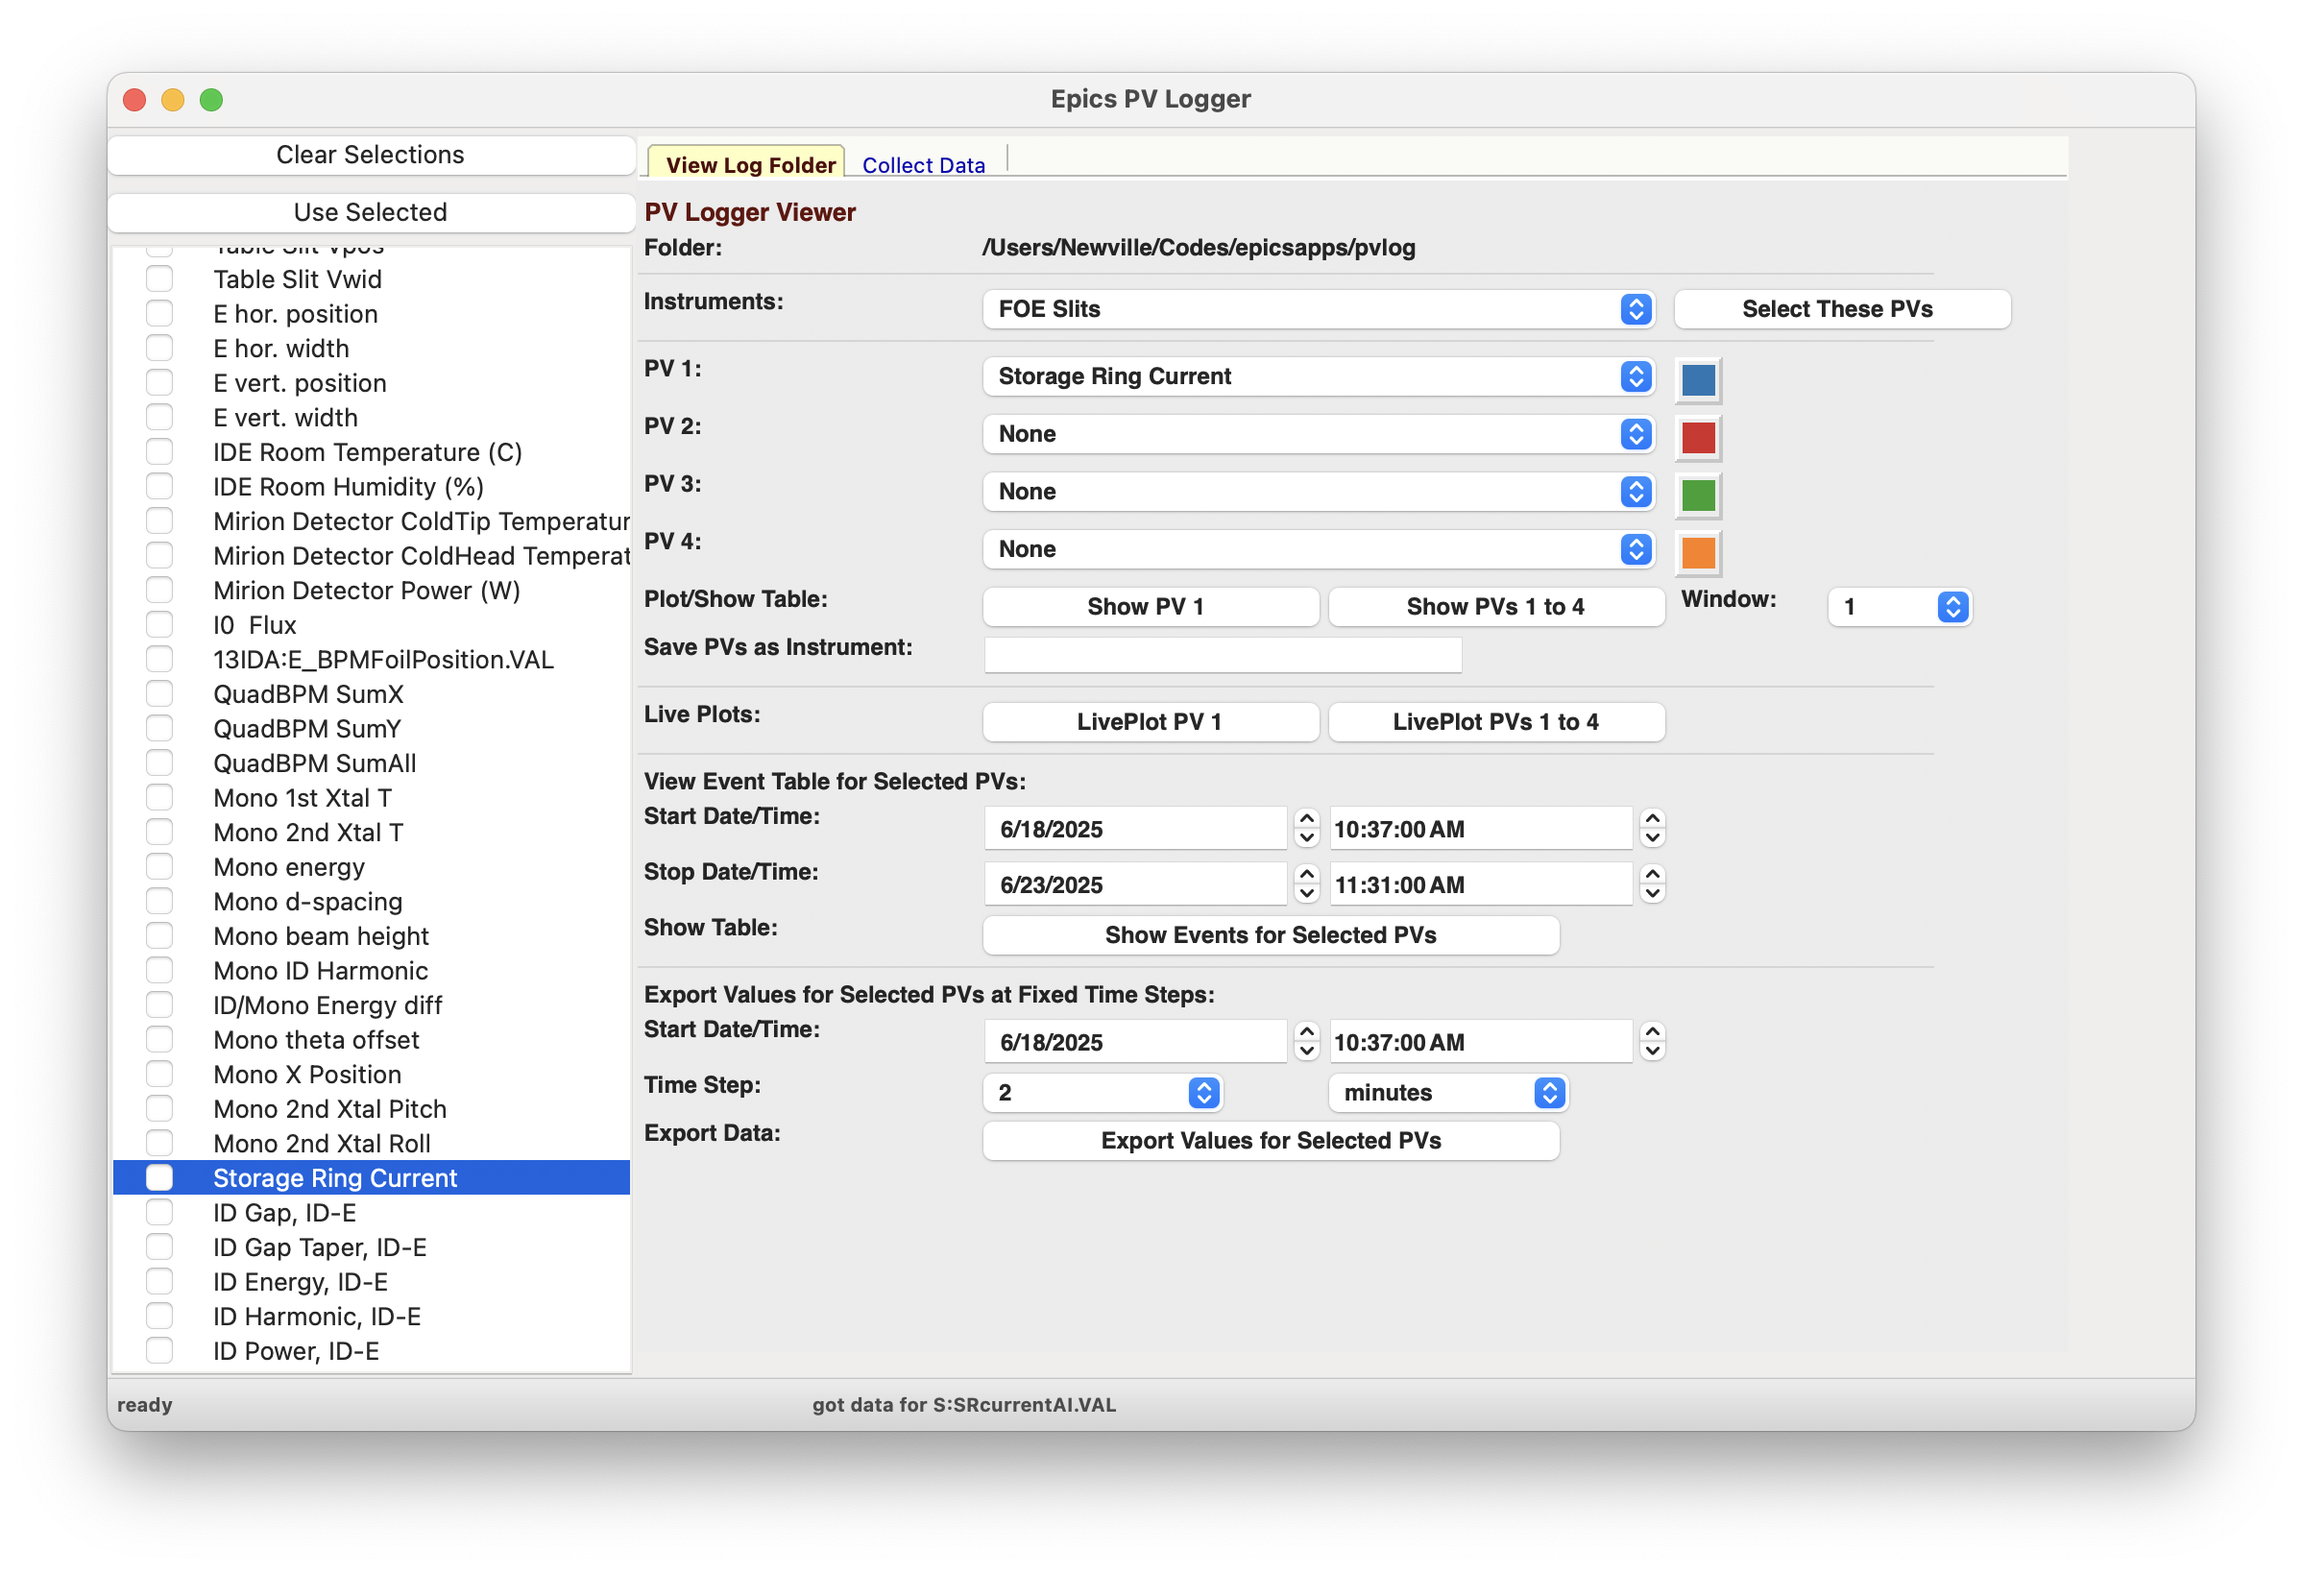
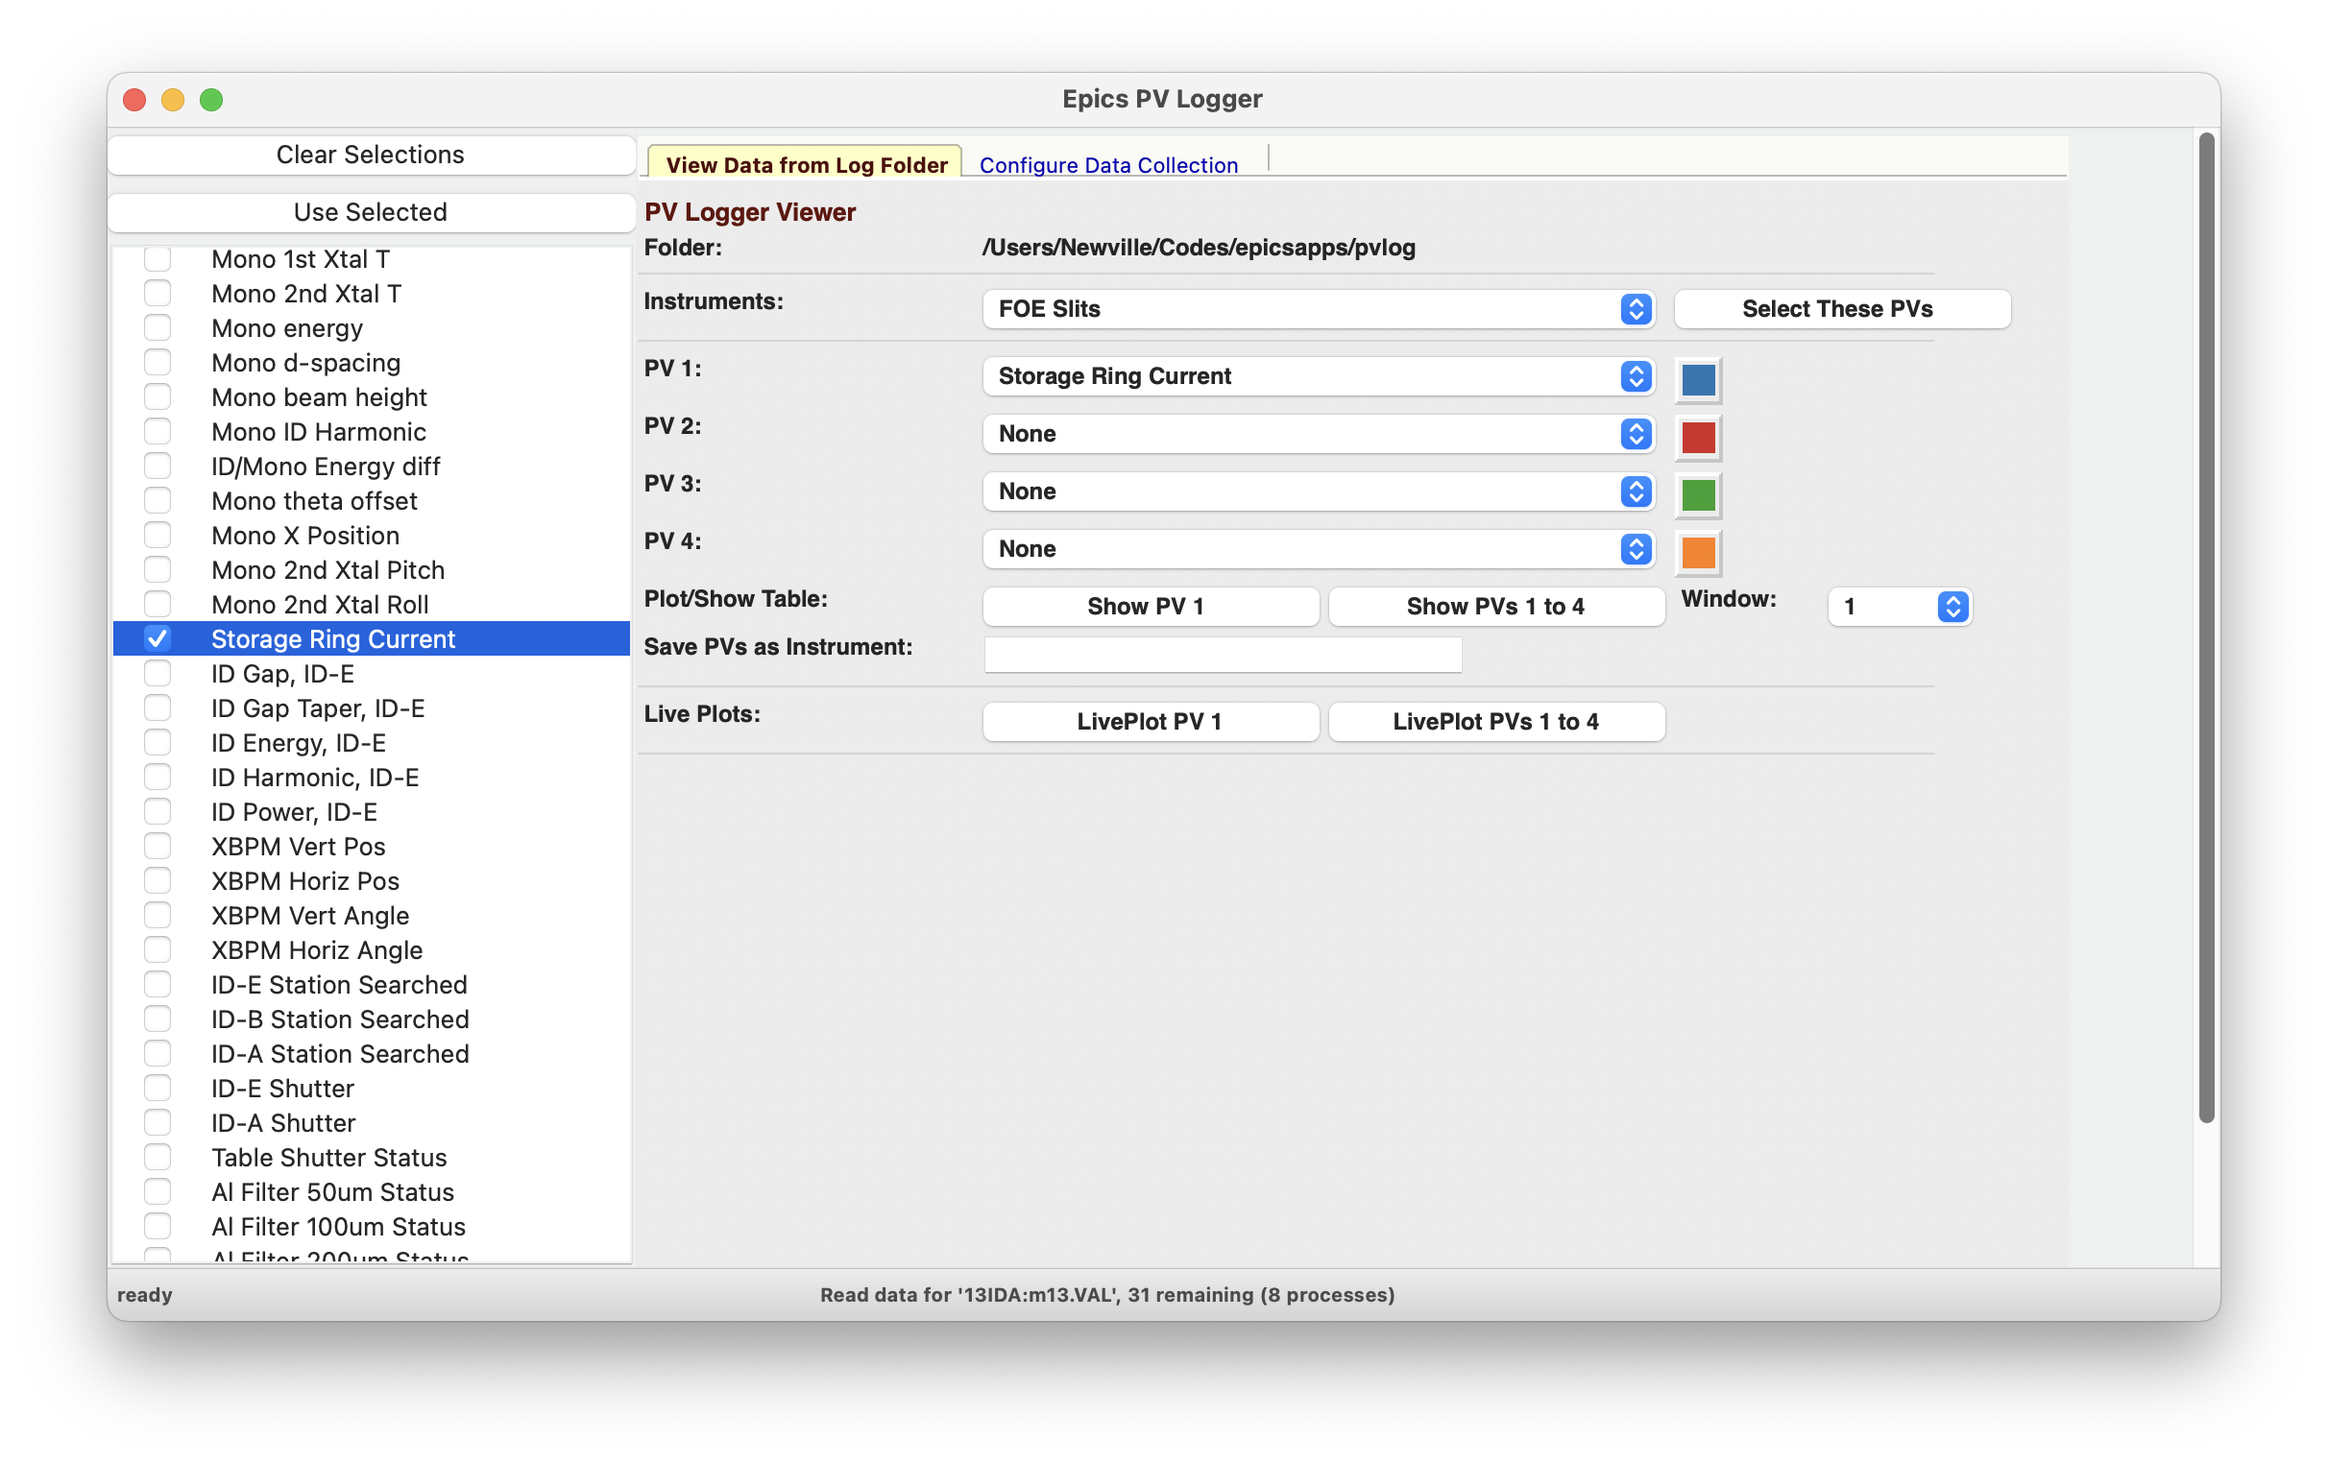
update PVLogger doc

diff --git a/doc/pvlogger.rst b/doc/pvlogger.rst
@@ -7,7 +7,7 @@ PV Logger
 ====================================
 
 The Epics PV Logger collects timeseries of a set of PVs into plain
-text data files in a folder, and displays these data back for
+text data files in a folder, and displays these data for
 exploratory analysis.  This is intended for a modest number of PVs
 that are not the primary data being collected during an experiment,
 for a limited time.  The typical use-case could be expressed as
@@ -18,26 +18,28 @@ For such experiments, it is often useful to collect values like
 Storage Ring Current, room temperature, positions and temperature of
 beamline optics and components, and detector settings from existing
 Epics PVs.  This sort of *metadata* cold be put into every data
-fil. While some metadata surely belongs in each data file, items like
-temperature of an upstream mirror or values of beam position monitors
-are really not metadata about the individual data file.  And, while
-there are several larger systems for archiving and retrieving PV
-variables for the whole facility or beamline, these are often meant to
-be facility-wide systems, and not about individual experiments.  Such
-systems may not be easily available after the experiment or away
-from the beamline.
+file. While some metadata surely belongs in particular data files,
+items like temperature of an upstream mirror or values of beam
+position monitors are really not metadata about the individual scan or
+set of images.  And, while there are several larger systems for
+archiving and retrieving PV variables for the whole facility or
+beamline, these are often meant to be facility-wide systems, and not
+about individual experiments.  Importantly, such systems may not be
+easily available after the experiment or away from the beamline, and
+finding data about a selected group of instruments for one experiment
+may not be easily discovered in such larger databases.
 
-We found that metadata stored in data file headers or large databases
-oten makes it hard to investigate how values changed over the course
-of an experiment.  Sometimes, it would be nice to browse and compare a
-few Time Series plots for a handful of PVs and to compare those with
-timestamps of the primary data files.
+We have found that metadata stored in data file headers or large
+databases often makes it hard to investigate how values changed over
+the course of an experiment. That is it would sometimes be convenient
+to browse and compare a few Time Series plots for a handful of PVs and
+to compare those with timestamps of the primary data files.
 
 The PVLogger application aims to fill this gap and is designed to
-collect the meta-data for a particular experiment in a way that can be
-easily digested and investigated during and after the experiment has
-ended. Another way of looking at it is that it expands the
-:ref:`stripchart` application to collect and view many PVs and
+collect the metad-data for a particular experiment in a way that can
+be easily digested and investigated during and long after the
+experiment has ended. Another way of looking at it is that it expands
+the :ref:`stripchart` application to collect and view many PVs and
 preserve and organize the data for future use.
 
 The PVLogger application has two mode of operation: *collecting data*
@@ -53,7 +55,8 @@ data.  Finally, the PVLogger application can be used to read, modify,
 and save existing configuration files, listing which PVs to log, and
 can start the data collection process.
 
-If date and times seem to shown with the wrong timezone, see :ref:`stripchart_timezone`.
+Note: if date and times seem to shown with the wrong timezone, see
+:ref:`stripchart_timezone`.
 
 
 
@@ -68,7 +71,6 @@ of logs in the `Epics Apps` folder, or from the command line with::
 
        epicsapps pvlogview
 
-
 Opening an existing folder will give a main window display like:
 
 .. image:: images/pvlogger_mainview.png
@@ -76,17 +78,18 @@ Opening an existing folder will give a main window display like:
 The Left-hand column will show the list of of PVs that were logged
 into the folder.  The names shown will generally be the "description"
 saved for the PV, sometimes with the PV name if the description is not
-unique. Each has a Check Box that you can use to select many PVs at
-once.  The "Clear Selections" button in the upper left will clear all
-checked PVs.  The right-hand portion has 2 Notebook Tabs, labelled
-"View Log Folder" and "Collect Data" -- we'll discuss the "View Log
-Folder" tab here and the "Collect Data" tab in the next section.
+unique. Each PV shown has a Check Box that can be use to select many
+PVs at once.  The "Clear Selections" button in the upper left will
+clear all selected PVs.  The right-hand portion has 2 Notebook Tabs,
+labelled "View Log Folder" and "Collect Data" -- we'll discuss the
+"View Log Folder" tab here and the "Collect Data" tab in the next
+section.
 
 The "View Log Folder" Panel allows you to select which data to
-visualize. The folder being read is If Epics Instruments were used in
-the data collection, you can select these and then press "Select these
-PVs" to check each of the PVs in that Instrument.  This panel is
-broken into several sections.
+investigate and visualize. The folder being read is shown at the top
+of this panel.  If Epics Instruments have been used in the data
+collection, you can select these and then press "Select these PVs" to
+check each of the PVs in that Instrument.
 
 The central portion of the panel shows up to 4 PVs to be
 displayed. Each of these has a Dropdown list will all the PV
@@ -101,21 +104,17 @@ Below the list of PVs are buttons for what to display.  The "Show PV
 For most PVs, the data will be numerical, and the "Show" buttons will
 display a graph of the time dependence of the PV(s).  Up to 10 Plot
 windows can be used, and you can select which to use for any display
-by selecting "Window 1" through "Window 10".
+by selecting Window 1 through 10.
 
 Below the buttons to plot the logged values, are buttons for "Live
 Plots".  When used at the beamline or from a computer that can connect
 to the live beamline PVs, clicking on the "Live Plot for PV 1" will
 show the corresponding PV in a live :ref:`stripchart` application.
 
-Below the "Live Plot" section, there are Date and Time
-entries to view Event Data.  We'll return to this in the next section
-:ref:`pvlogger_event_data`.
-
-Finally, below the Event section, there is a section for exporting
-data for several PVs to a single tab-separated file at a fixed time
-interval. We'll return to this in the next section
-:ref:`pvlogger_exporting_data`.
+Two Menu Selections from the "Viewer Options" menu will allow you
+to view "Event Data" and to "Export Data" for several PVs to a
+table-like spreadsheet file.  We'll return to these in the sections
+:ref:`pvlogger_event_data` and :ref:`pvlogger_exporting_data` below.
 
 As an example plot of one PV, with "Storage Ring Current (mA)" as PV
 1, clicking the "Show PV 1" button will show:
@@ -149,20 +148,23 @@ For all plots, there is good interactivity including
 
 For more details, see `wxmplot`_.
 
-.. _pvlogger_event_data:
 
-Event Data: viewing non-numerica data
+.. _pvlogger_nonnumeric_data:
+
+Viewing Non-Numerical and Event Data
 ~~~~~~~~~~~~~~~~~~~~~~~~~~~~~~~~~~~~~~~~~~~~~~~~
 
 Some data is not numerical but text, and so not easily plotted. To be
 clear, PVs with enumerated or multi-bit binary values can be plotted,
-as shown above.  For PV values that is changing strings (or long
-character waveforms) as for file names or recorded commands, PVLogger
-will show a table of values with timestamps:
+as shown above.  For PV values that are text (stings or long character
+waveforms) such as file names, PVLogger will show a table of values
+with timestamps:
 
 .. image:: images/pvlogger_table.png
 
-Reading the history of values can be useful. Selecting a few of these
+Reading this history of values can be useful. But it is even more
+useful to compare the times when these values change with other data,
+either numerical or non-numerical data.  Selecting a few of these
 recorded "Events" and pressing the "Show Selected" Button will put
 vertical lines (of the selected color) on the plot window at the times
 of those values, looking like:
@@ -177,35 +179,52 @@ event will be shown at the top, with the previous selected events
 below that.  Clicking the "Clear Events" button on the plot window
 will clear the table.
 
+For PVs that are Epics Motors several fields besides the main Drive
+Value (see :ref:`pvlogger_motor_data`) will be logged.  These other
+values are not expected to change very often, and so will be displayed
+as Events for the Motor Drive PV in the Event Table.
 
-For PVs that are Epics Motors several fields besides the main Drive Value (see
-:ref:`pvlogger_motor_data`) will be logged.  These other values are
-not expected to change very often, and so will be displayed are Events
-for the Motor Drive PV.
 
+.. _pvlogger_event_data:
 
-In addition to showing showing Events for each PV in a single table
+Viewing Event Data Table
+~~~~~~~~~~~~~~~~~~~~~~~~~~~~~~~~~~~~~~~~~~~~~~~~
+
+In addition to showing showing Events for each PV in its own table
 so that selected events can be placed on a plot, you can also use the
-date and time entries at the bottom of the main viewing panel to create a
-single table showing all events for a set of PVs for a selected time
-range.
+"Viewer Options->Event Data Table" menu to get a single table with the
+"Event Data" for a set of Selected PVs.  The Menu will bring up a form
+that looks like this:
+
+.. image:: images/pvlogger_event_form.png
+
+from which you can select time ranges, and then create a table like
+this:
+
+.. image:: images/pvlogger_event_table.png
+
+which will show the events (including connection events and changes to
+extra Motor fields) for the selected PVs.
 
 
 .. _pvlogger_exporting_data:
 
-
 Exporting Data to Tab-separated Files
 ~~~~~~~~~~~~~~~~~~~~~~~~~~~~~~~~~~~~~~~~~~~~~~~~
 
-Ths bottom section of the main "PV Logger View" panel allows you to
-export for selected PVs to a tab-separated (TSV) file.  These data
-will be recorded at a fixed and uniform time period, say every 15
-seconds or every 2 minutes, as selected from the form on the window.
-Note that values exported in this way may have several repeated
-values, even if the actual value did not change.  On the other hand,
-if a PV changes frequently, not all changes in data values will be
-recoded in these exported files.
+You can export data for several selected PVs to a tab-separated (TSV) file.
+Using "Viewer Options->Export Data" menu will bring up a form like
 
+.. image:: images/pvlogger_export_form.png
+
+
+The data for all of the selected PVs will be recorded at a fixed and
+uniform time period, say every 30 seconds or every 10 minutes, as
+selected from the form.  Note that values exported in this way may
+have several repeated values, even if the actual value did not change.
+On the other hand, if a PV changes frequently, not all changes in
+values will be recoded in these exported files.  Still, this can be a
+very useful way to move the data to other applications.
 
 
 Collecting PVLogger Data
@@ -290,7 +309,7 @@ be recorded.  This value is absolute, not relative, and it is
 referenced to the last reported value so that slow cumulative changes
 are seen, just with fewer intermediate values.
 
-If explictly set (not `<auto>`), PVLogger will try to set the `.MDEL`
+If explicitly set (not `<auto>`), PVLogger will try to set the `.MDEL`
 field of the record. This will limit the number of events sent for
 this PV from the CA server to only those that exceed the last reported
 value by this amount.  If the `.MDEL` field cannot be set (perhaps due
@@ -328,8 +347,8 @@ Using Epics Instruments
 
 If using :ref:`instruments` with a PostgresQL database, and if the
 environmental variable `ESCAN_CREDENTIALS` is set, then any of the
-existing Instruments in the database can be loggged simply by giving
-its name in the `instrumenst` setting of the configuration file.
+existing Instruments in the database can be logged simply by giving
+its name in the `instruments` setting of the configuration file.
 Setting this will log all of the PVs defined for that Instrument.
 
 
@@ -433,7 +452,7 @@ text.
    1739385277.397   178.41167158919   178.4
    1739385278.397   178.62177039127   178.6
 
-with a header showing information anbout the PV and logging, and then
+with a header showing information about the PV and logging, and then
 columns of timestamp (seconds since 1970 as a double precision float,
 to millisecond precision), value, and the string representation of the
 value (here, formatted with the PVs precision).
